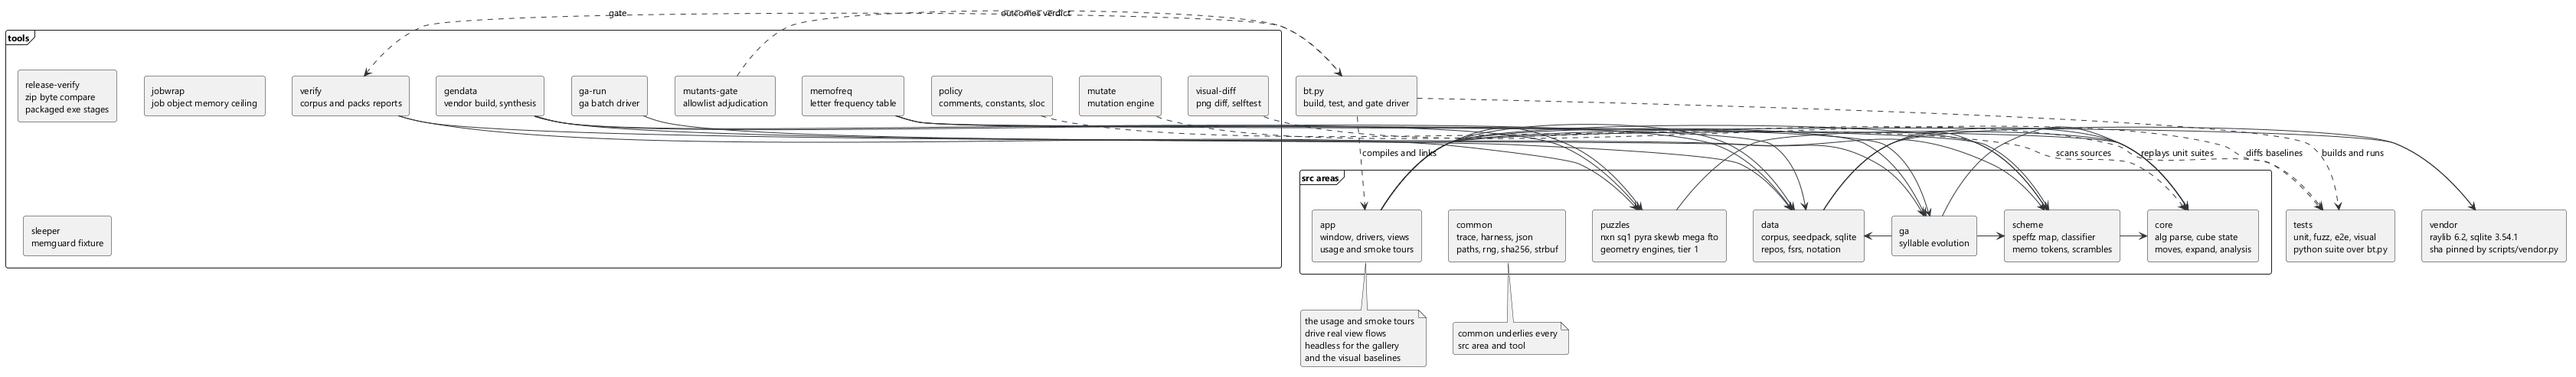
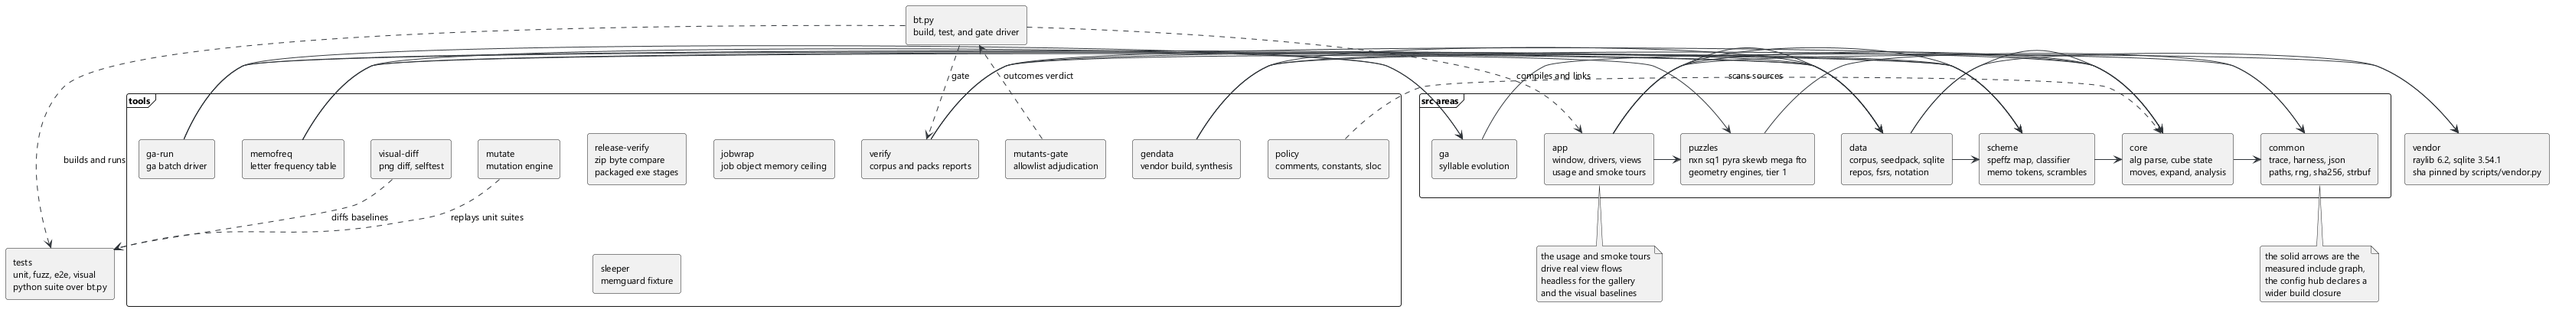
docs: adversary fix round over the readme and 3 diagrams

diff --git a/README.md b/README.md
@@ -4,7 +4,7 @@
 [![coverage](docs/badges/coverage.svg)](scripts/coverage_badge.py)
 [![alg coverage](docs/badges/alg-coverage.svg)](scripts/alg_coverage_badge.py)
 
-A desktop 3BLD trainer: 3-style drilling, memo training, and timed solves, plus a multi-event alg repository covering CFOP, OH, 2x2, big cubes 4x4 to 7x7, pyraminx, megaminx, skewb, square-1, and FTO, every case drilled under the same FSRS-5 scheduler. Every alg is mechanically verified against an emulated cube or its own event engine, so misspellings and wrong algs never contaminate muscle memory. One C23 codebase renders through raylib, stores in sqlite, and builds, tests, and releases through the `bt.py` driver.
+A desktop 3BLD trainer: 3-style drilling, memo training, and timed solves, plus a multi-event alg repository covering CFOP, OH, 2x2, big cubes 4x4 to 7x7, pyraminx, megaminx, skewb, square-1, and FTO, every case drilled under the same FSRS-5 scheduler. Every alg is mechanically verified against an emulated cube or its own event engine, so misspellings and wrong algs never contaminate muscle memory. A single C23 codebase renders through raylib, stores in sqlite, and builds, tests, and releases through the `bt.py` driver.
 
 ## Table of contents
 
@@ -38,7 +38,7 @@ A desktop 3BLD trainer: 3-style drilling, memo training, and timed solves, plus 
 
 5. ![drill rate b](docs/screenshots/drill-rate-b.png)
 
-   the second rating prompt, for side B
+   the 2nd rating prompt, for side B
 
 6. ![memo intro](docs/screenshots/memo-intro.png)
 
@@ -74,7 +74,7 @@ A desktop 3BLD trainer: 3-style drilling, memo training, and timed solves, plus 
 
 14. ![algs](docs/screenshots/algs.png)
 
-    the alg browser, the 3BLD letters plus one arm per event
+    the alg browser, the 3BLD letters plus 1 arm per event
 
 15. ![algs search](docs/screenshots/algs-search.png)
 
@@ -96,11 +96,15 @@ A desktop 3BLD trainer: 3-style drilling, memo training, and timed solves, plus 
 
     settings, memo cadence, memo mode, drill reps
 
+20. ![fatal](docs/screenshots/fatal.png)
+
+    the fatal screen, shown with the reason when the config or the ref_ground corpus sheets are unreadable
+
 ## Data and formats
 
 ### letter scheme, colors, buffers
 
-Speffz letter scheme, one letter per sticker position per orbit, A through X:
+Speffz letter scheme, 1 letter per sticker position per orbit, A through X:
 
 ```
 edges   A UB  B UR  C UF  D UL  E LU  F LF  G LD  H LB
@@ -115,7 +119,7 @@ The full map is equality-tested against ref_ground/position_map.tsv. Colors: whi
 
 ### memo tokens
 
-Edge pairs memo as single Vietnamese syllables from data/ga/syllables.json, one syllable per pair, assigned by the genetic optimizer under memo-frequency weighting, `python bt.py ga` regenerates the assignment. Corner pairs memo as image words from the letter-pair image table embedded in the app, AB is Anthony Brooks, QM is Quail Man, pairs without an entry fall back to the bare letters. The memo mode setting picks the stream: syllables, images, or per-orbit, the default, syllables for edges and image words for corners.
+Edge pairs memo as single Vietnamese syllables from data/ga/syllables.json, 1 syllable per pair, assigned by the genetic optimizer under memo-frequency weighting, `python bt.py ga` regenerates the assignment. Corner pairs memo as image words from the letter-pair image table embedded in the app, AB is Anthony Brooks, QM is Quail Man, pairs without an entry fall back to the bare letters. The memo mode setting picks the stream: syllables, images, or per-orbit, the default, syllables for edges and image words for corners.
 
 ### synthesis
 
@@ -139,9 +143,9 @@ siGN dialect: faces U D L R F B with `'` and `2`, lowercase wides, inner slices,
 
 ### event engines and pack verification
 
-Every non-3BLD event runs on its own engine in src/puzzles: nxn handles 2x2 through 7x7 under one stride-based model, sq1 carries the exact square-1 geometry with the state-aware slash, mega the 5-sided ring, pyra the facelet model, skewb the corner turns, fto all 8 faces of the octahedron. Each engine parses its event's notation dialect and applies moves to its own state, one module per event behind one shared geometry interface.
+Every non-3BLD event runs on its own engine in src/puzzles: nxn handles 2x2 through 7x7 on the same stride-based model, sq1 carries the exact square-1 geometry with the state-aware slash, mega the 5-sided ring, pyra the facelet model, skewb the corner turns, fto all 8 faces of the octahedron. Each engine parses its event's notation dialect and applies moves to its own state, 1 module per event behind 1 shared geometry interface.
 
-Pack rows verify under a two tier model. Tier 1 round trips the row's alg against its inverse from solved in both orders through its event engine, so tokens that do not parse, sequences that do not execute, and wrong algs all fail closed. Tier 2 checks an independent predicate over the resulting state where an honest one exists, the sq1 cubeshape rows compare against the canonical shape classifier and the bld oldpoch rows against a piece audit, rows without an honest predicate are skipped and the report counts them. Known source defects stay verbatim on the expected-failure table compiled into the seedpack module with per-row reasons, and `python bt.py verify-algs` fails on any unruled failure, any ruled row that fails nothing, and any row-count drift against the registry pins.
+Pack rows verify under a 2 tier model. Tier 1 round trips the row's alg against its inverse from solved in both orders through its event engine, so tokens that do not parse, sequences that do not execute, and wrong algs all fail closed. Tier 2 checks an independent predicate over the resulting state where such a predicate exists, the sq1 cubeshape rows compare against the canonical shape classifier and the bld oldpoch rows against a piece audit, rows without an honest predicate are skipped and the report counts them. Known source defects stay verbatim on the expected-failure table compiled into the seedpack module with per-row reasons, and `python bt.py verify-algs` fails on any unruled failure, any ruled row that fails nothing, and any row-count drift against the registry pins.
 
 ## Architecture and flows
 
@@ -159,7 +163,7 @@ the scheme pipeline, speffz map through the classifier, synthesis for uncovered 
 
 ![data](docs/diagrams/04-data.png)
 
-the data pipeline, ref_ground corpus and packs through the loaders into the sqlite stores and FSRS-5
+the data pipeline, ref_ground corpus sheets load into memory at boot, ref_ground/packs seed the sqlite stores, data/vendor is the gendata output and cross-check input
 
 ![ga](docs/diagrams/05-ga.png)
 
@@ -215,7 +219,7 @@ gendata builds data/vendor from ref_ground and synthesizes verified commutator a
 .\build\bin\bt-app.exe
 ```
 
-The first run creates blind-trainer.db in the user dir, imports legacy JSON files once, and runs the numbered migrations. A missing vendor directory only warns, the app runs on user data alone.
+The first run creates blind-trainer.db in the user dir, runs the numbered migrations, then imports legacy JSON files once. A missing ref_ground root only warns, the app runs on user data alone.
 
 4. Regenerate artifacts:
 
@@ -229,7 +233,7 @@ python scripts/alg_coverage_badge.py
 
 ## Runtime data and config
 
-1. User data. blind-trainer.db, a sqlite database in the user dir: `%APPDATA%/blind-trainer` on Windows, `$XDG_DATA_HOME/blind-trainer` when the variable is set, `~/.local/share/blind-trainer` otherwise. Schema changes run as numbered migrations from db/migrations/, embedded into the binary by scripts/gen_migrations.py, each step copies the database to a `.bak` backup first, and legacy JSON files (settings, srs, solves, user alg overlay) import once on first run and rename to `.migrated`.
+1. User data. blind-trainer.db, a sqlite database in the user dir: `%APPDATA%/blind-trainer` on Windows, `$XDG_DATA_HOME/blind-trainer` when the variable is set, `~/.local/share/blind-trainer` otherwise. Schema changes run as numbered migrations from db/migrations/, embedded into the binary by scripts/gen_migrations.py. The database copies to a `.bak` backup once before the first pending migration of a run, and only when tables already exist. Legacy JSON files (settings, srs, solves, user alg overlay) import once on first run after the migrations and rename to `.migrated`.
 
 2. Config hub. `config/config.json` is the single centralized source for every tunable: the app section (window, memo cadence and mode, drill reps, smoke seed, the app.replay playback and camera knobs, fonts, render), ga seed and weights, memofreq sampling, srs.fsrs (the FSRS-5 weights, request retention, interval clamp), verify limits, synth including synth.scoring (preferred faces, finger costs, ranking weights), visual tolerance, fuzz budgets, mutants workers and timeouts, policy scanner settings, the sloc cap, the job memory ceiling, memguard, the disk floor and scratch staleness window, the e2e shot list and timeout, the release verifier contract, all paths, the build toolchain, flags, and vendored library pins. `python bt.py policy` enforces the hub: numeric literals recurring in src outside the hub must carry a justified row in `config/constants_allow.txt`, and the same scan rejects every code comment and every file over the sloc cap.
 
@@ -247,15 +251,15 @@ bt.py sets them for every suite and tool run. Runtime roots for config, vendor d
 
 ### the app keyboard
 
-bt-app.exe with no flags opens the menu. Exactly one of the shot flags may be set and each takes the output directory, a violation prints the reason and exits 2.
+bt-app.exe with no flags opens the menu. Exactly 1 of the shot flags may be set and each takes the output directory, a violation prints the reason and exits 2.
 
 | flag | argument | purpose |
 |---|---|---|
-| --smoke | dir | run the smoke tour over every view, write one shot per state, exit with the tour verdict |
+| --smoke | dir | run the smoke tour over every view, write 1 shot per state, exit with the tour verdict |
 | --usage | dir | write the usage screenshots |
 | --fatal-shot | dir | write the fatal screen with the config pointed at a missing path |
 
-The menu: digits 1 to 6 open the views. Every row shows the view name with a one-line description, boot warnings such as a missing vendor directory appear in the header strip. esc returns to the menu from every view and first drops any focused text input.
+The menu: digits 1 to 6 open the views. Every row shows the view name with a short description, boot warnings such as a missing ref_ground root appear in the header strip. esc returns to the menu from every view and first drops any focused text input.
 
 The drill view runs physical 3-style pair drilling with FSRS-5 scheduling, no typed input anywhere. The card shows the pair letters, orbit and position, the memo token (edges use the Vietnamese syllable, corners the image word, bare letters when uncovered), the side A alg colored by mechanic with setup muted and interchange and insertion accented, falling back to the raw commutator when it does not decompose, the prepare line holding side B, the vendor alg of the flipped case or the derived inverse labeled inverse, plus qtm and htm lengths, solver, verified badge, FSRS due for both sides, and muted alternative vendor rows. Apply prepare to your solved cube, space starts the rep phase: each space executes the shown alg and flips to the other side, alternating A and B until the even rep count ends back in the prepared state, the drill reps setting controls it. Rate AB then BA with 1 to 4 (again, hard, good, easy), each rating writes FSRS for its own position and the next covered pair loads automatically, due or new pairs first. esc aborts to the menu writing nothing.
 
@@ -265,7 +269,7 @@ The solve view is the timed full cycle with the net on the left and a rail on th
 
 The replay view: v at the solve review replays your solve as an animated 3d cube, the executed memo sequence turning on the scramble. Hold any mouse button and drag to orbit, the wheel zooms, r resets the camera, space pauses and resumes playback, v returns to the solve. Playback speed and the camera defaults and clamps live in the app.replay config section.
 
-The algs view is a two-column browser over the full 3-style pair space plus the multi-event repository: the windowed list sits left, the selected case right. The list starts at the 3BLD letters, then one arm per event from the seed registry, each nesting method, stage, then cases from its seeded pack. An event whose pack fails to load hides with a boot warning instead of breaking the catalog. At the letters, slash focuses the filter and typed letters filter by pair prefix. Up down and n p move the selection everywhere, right descends into a repository node, left ascends, d or enter sends a 3BLD case to the drill or arms the case drill at a repository node, esc drops the filter focus first and exits the view on the second press. The 3BLD detail shows the letters, orbit, position and coverage, the first vendor alg colored by mechanic when its commutator decomposes, alternative algs, solver, qtm and htm lengths, a verification badge, and recon and video links. A repository case shows its event, method, stage, the net rendered through that event's engine, the seed alg with a seed or override badge, and a tier 1 verification line. o opens an override draft prefilled with the effective alg, enter submits it through the event's tier 1 verifier so a broken override never lands, tab cancels, x deletes the override and reverts to the seed.
+The algs view is a 2-column browser over the full 3-style pair space plus the multi-event repository: the windowed list sits left, the selected case right. The list starts at the 3BLD letters, then 1 arm per event from the seed registry, each nesting method, stage, then cases from its seeded pack. An event whose pack fails to load hides with a boot warning, the catalog keeps working. At the letters, slash focuses the filter and typed letters filter by pair prefix. Up down and n p move the selection everywhere, right descends into a repository node, left ascends, d or enter sends a 3BLD case to the drill or arms the case drill at a repository node, esc drops the filter focus first and exits the view on the 2nd press. The 3BLD detail shows the letters, orbit, position and coverage, the first vendor alg colored by mechanic when its commutator decomposes, alternative algs, solver, qtm and htm lengths, a verification badge, and recon and video links. A repository case shows its event, method, stage, the net rendered through that event's engine, the seed alg with a seed or override badge, and a tier 1 verification line. o opens an override draft prefilled with the effective alg, enter submits it through the event's tier 1 verifier so a broken override never lands, tab cancels, x deletes the override and reverts to the seed.
 
 The case drill view: d at a repository node arms a due session over every case under that node, d at a case node drills that single case. The session orders due and new cards first, space reveals the case, 1 to 4 grade again, hard, good, easy into FSRS with the case card store, and the next card loads automatically until the queue empties and returns to the browser. esc exits to the menu at any time. 3BLD keeps its own drill view, the case drill serves every other event.
 
@@ -273,7 +277,7 @@ The stats view is a block grid over the solve log and both card stores: solve co
 
 The settings view holds memo cadence, memo mode (syllables, images, or per-orbit, the default), and drill reps. The number inputs and the select apply immediately, 1 2 and 3 switch the memo mode from the keyboard when no input is focused, everything persists across restarts.
 
-The fatal screen: if the config cannot be read, or the vendor directory exists but its sheets are unreadable, the app opens here with the reason instead of the menu. A missing vendor directory only warns at the menu and the app runs on user data alone. The fatal screen ignores keys, fix the reported path and restart.
+The fatal screen: if the config cannot be read, or the ref_ground root exists but its corpus sheets are unreadable, the app opens here with the reason and no menu appears. A missing ref_ground root only warns at the menu and the app runs on user data alone. The fatal screen ignores keys, fix the reported path and restart.
 
 ### bt.py targets
 
@@ -321,7 +325,7 @@ bt-app.exe in smoke mode: 0 tour complete with all shots written, 1 verification
 
 ## QA harness
 
-The verification chain runs through bt.py in order, committing at each green step: test, fmt, lint, policy, check, build, fuzz, mutants, mutants-gate, e2e, visual, verify-algs, each a separate invocation so a failure names its step. Every custom gate ships a selftest target that proves it detects what it claims: policy-selftest, mutants-gate-selftest, visual-selftest, verify-algs-selftest, release-verify-selftest. Surviving mutants are never ignored: mutants-gate fails unless each one matches a justified row in `config/allowlist.tsv`, stale rows also fail. visual always diffs fresh e2e renders against the committed baselines, baselines recaptures them from two byte-identical smoke captures, and the baselines carry their capture recipe in tests/visual/baselines/PROVENANCE.md. Adversarial review by two independent agents before any task closes, records land in docs/reviews/ from the template there. Conventional commits, zero code comments, the sloc cap. CI runs on every push to main and every pull request.
+The verification chain runs through bt.py in order, committing at each green step: test, fmt, lint, policy, check, build, fuzz, mutants, mutants-gate, e2e, visual, verify-algs, each a separate invocation so a failure names its step. Every custom gate ships a selftest target that proves it detects what it claims: policy-selftest, mutants-gate-selftest, visual-selftest, verify-algs-selftest, release-verify-selftest. Surviving mutants are never ignored: mutants-gate fails unless each survivor matches a justified row in `config/allowlist.tsv`, stale rows also fail. visual always diffs fresh e2e renders against the committed baselines, baselines recaptures them from 2 byte-identical smoke captures, and the baselines carry their capture recipe in tests/visual/baselines/PROVENANCE.md. Adversarial review by 2 independent agents before any task closes, records land in docs/reviews/ from the template there. Conventional commits, zero code comments, the sloc cap. CI runs on every push to main and every pull request and still executes the gates of the earlier application stack, item 2 of the roadmap moves it onto the bt.py gates.
 
 ## Roadmap
 

diff --git a/artifacts/progress/t48.md b/artifacts/progress/t48.md
@@ -26,6 +26,24 @@ Badges:
 - diagrams render: python scripts/diagrams.py exit 0, 10 pngs written 12:00:26.
 - commits through python scripts/commit_lane.py only.
 
+## Fix round after the adversary pair
+
+Adversary probes read: playground/adv-24a (pixel decode of the gallery, hollow shots are a production regression owned by another lane this round, pngs untouched here) and playground/adv-24b/probe-log.md (help table identical 33 rows, badges byte-verified, all 10 renders byte-identical, include matrix measured). Items applied, text and diagrams only:
+
+1. B1 diagram 04 redrawn to the code path: corpus sheets load from ref_ground into memory at boot (logic.c 327-337, corpus.c 131-138), ref_ground/packs seed the db at boot (persist.c 281-331), data/vendor is the gendata output and the cross-check input, the invented vendor-to-db edge removed. README caption under the data diagram rewritten to match.
+2. B2 the ambiguous vendor directory wording in README replaced with the ref_ground root resolved from BT_REF_GROUND or paths.ref_ground (bt_data_vendor_root_from reads paths.ref_ground, src/data/paths.c 116-150): the menu warning line, the run app step, and the fatal paragraph.
+3. B3 diagram 01 solid arrows replaced with the measured include graph: core to common, scheme to core, data to core and scheme, puzzles to common, ga to common, app to core scheme data puzzles, gendata to core data scheme, verify to core data puzzles, ga-run and memofreq to data ga scheme. The 6 invented arrows removed, 1 plain note sentence states the config hub declares a wider build closure.
+4. B4 CI sentence in the qa harness states the current workflow still runs the earlier application stack gates and names roadmap item 2, no toolchain named.
+5. B5 backup claim corrected: the db copies to a .bak once before the first pending migration of a run and only when tables exist (db.c 263-273), README and the diagram 04 note.
+6. B6 first-run order corrected: migrations run inside open_root then legacy import (persist.c 339 then 343), README run step and runtime section now match diagram 06.
+7. B7 fatal.png added to Pictures as shot 20 with a caption, the surfaces paragraph keeps the behavior.
+8. A2 the 2 contrastive constructions rewritten: pack failure hides with a boot warning and the catalog keeps working, fatal opens with the reason and no menu appears.
+9. A3 written-out counts replaced with digits in prose (1 syllable per pair, 1 arm per event, 2-column, 2 tier, 2 byte-identical, 2 agents, 2nd press, 2nd rating prompt), the remaining one and two words inside the verbatim bt.py help table stay as bt.py's own target docs, ordinals kept only where sequencing reads naturally (first run, due or new pairs first).
+
+Fix round gates: help table check match 33 rows, style greps clean (no semicolons, dashes, instead of, rather than, vendor directory, prose count words), python suite 147 OK exit 0, no scanned file touched, screenshots untouched per the round owner rule.
+
+Screenshot captions after the production fix: no adjustment needed. The captions describe views, keys and screen structure traced to the view code, no caption cites pixel content that the hollow renders would have altered, and the fix restores the renders the code already describes.
+
 ## Reading log
 
 read C:/Users/lavantien/dev/github/quotes-manager/README.md full - the standard template
@@ -70,3 +88,11 @@ read artifacts/progress/t47.md full - gate substitutes under the mutation host
 list artifacts/progress titles - wave state
 read tests/python/test_scripts.py 290-370 - badge byte contract
 gh run list ci.yml - latest main run success 2026-10-26
+read playground/adv-24b/probe-log.md full - include matrix and render evidence
+list playground/adv-24a, adv-24b - probe inventory
+read src/app/persist.c 255-355 - pack seeding, open_root then import order
+read src/data/db.c 255-300 - backup once before the first pending migration
+read src/app/logic.c 248-355 - boot config fatal path, corpus load from the ref_ground root
+read src/data/corpus.c 110-155 - solver sheet tsv load from the root
+grep src vendor_root packs_root - path resolution reads paths.ref_ground and paths.packs
+read README sections 70-120, 136-160, 214-280, 318-339 - edit targets for the fix round
